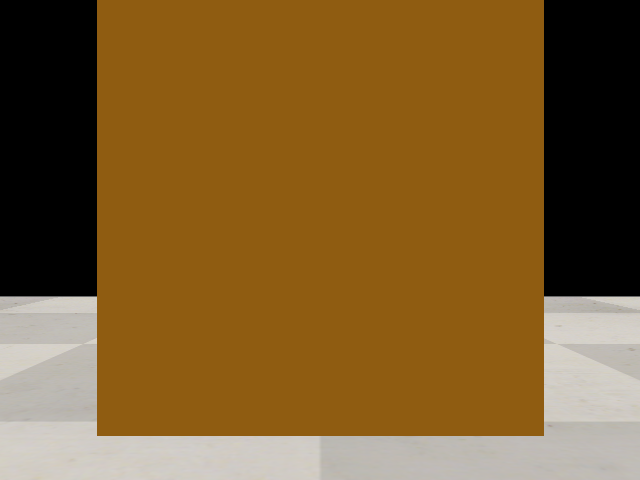
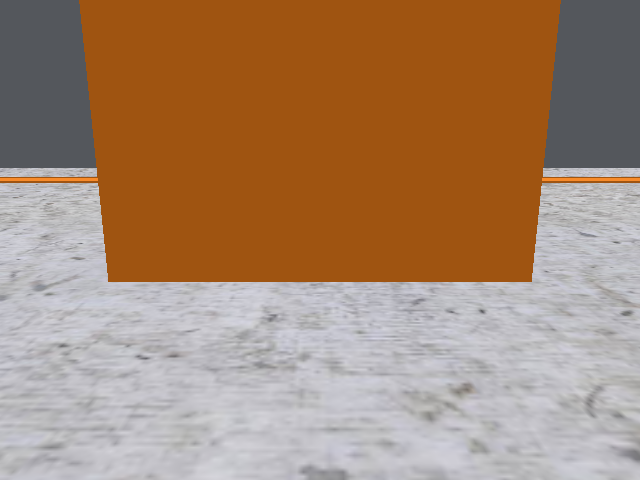
Sensor coverage view: real sonar cones and lidar field
Sensors.geometry reads the sensor fields from the scene (sonar cone 30 deg / 1 m, lidar 2 x 120 deg);
draw_scan shades the lidar field and draws each sonar cone (orange arc = echo), so blind zones are
visible. test_sensors --snapshot works in any scene. Notes: sensor coverage + why there is no rear lidar.

diff --git a/src/sensors.py b/src/sensors.py
@@ -26,6 +26,32 @@ class Sensors:
             if alias.startswith("sonar_"):
                 self.sonars[alias[len("sonar_"):]] = h
         self.camera = sim.getObject(robot_path + "/camera")
+        self.geometry = self._read_geometry()
+
+    def _in_robot(self, h):
+        """Mount position (forward, left) and view direction (rad, 0 = forward, + = left) of a sensor."""
+        m = self.sim.getObjectMatrix(h, self.ref)
+        return (m[7], -m[3]), float(np.arctan2(-m[2], m[6]))        # sensors look along their +z axis
+
+    def _read_geometry(self):
+        """Fields of view READ FROM THE SCENE (not guessed), for draw_scan():
+        lidar = mount position, range and one (direction, half angle) per depth sensor;
+        sonars = per sonar: mount position, direction, half angle, near / far limit of its cone."""
+        sim = self.sim
+        fields = []
+        for s in self.lidar:
+            pos, d = self._in_robot(s)
+            fields.append((d, sim.getObjectFloatParam(s, sim.visionfloatparam_perspective_angle) / 2))
+        lidar = dict(pos=pos, range=sim.getObjectFloatParam(self.lidar[0], sim.visionfloatparam_far_clipping),
+                     fields=fields)
+        sonars = {}
+        for name, h in self.sonars.items():
+            pos, d = self._in_robot(h)
+            off, rng = sim.getFloatProperty(h, "volume_offset"), sim.getFloatProperty(h, "volume_range")
+            # volume_angle[0] = FULL opening of the cone (its volume_edges reach half of it off-axis)
+            sonars[name] = dict(pos=pos, dir=d, half=sim.getFloatArrayProperty(h, "volume_angle")[0] / 2,
+                                near=off, far=off + rng)
+        return dict(lidar=lidar, sonars=sonars)
 
     def lidar_points(self):
         """Obstacle points seen by the lidar, in the robot frame (forward, left)."""
@@ -65,19 +91,62 @@ class Sensors:
         return np.ascontiguousarray(img[::-1, :, ::-1])     # CoppeliaSim: bottom row first, RGB
 
 
-def draw_scan(points, sonars=None, size=500, scale=100):
-    """Top view centred on the robot (forward = up), 1 px = 1/scale m. Returns a BGR image."""
+def _sector(pt, pos, d, half, r0, r1):
+    """Polygon (image px) of the ring sector between r0 and r1 around the robot-frame point pos,
+    centred on direction d (rad), half opening `half`."""
+    a = np.linspace(d - half, d + half, 24)
+    out = [pt(pos[0] + r1 * np.cos(t), pos[1] + r1 * np.sin(t)) for t in a]
+    out += [pt(pos[0] + r0 * np.cos(t), pos[1] + r0 * np.sin(t)) for t in a[::-1]]
+    return np.array(out, np.int32)
+
+
+def draw_scan(points, sonars=None, size=500, scale=100, geometry=None):
+    """Top view centred on the robot (forward = up), 1 px = 1/scale m. Returns a BGR image.
+    With `geometry` (Sensors.geometry): the lidar field is shaded and each sonar is drawn as its real
+    cone, grey when empty, orange with an arc at the measured distance when it hears an echo; what is
+    left white is outside every sensor (blind zones)."""
     import cv2
     img = np.full((size, size, 3), 255, np.uint8)
     c = size // 2
+
+    def pt(f, l):
+        return int(round(c - l * scale)), int(round(c - f * scale))
+
+    if geometry:
+        li = geometry["lidar"]
+        shade = img.copy()
+        for d, half in li["fields"]:
+            cv2.fillPoly(shade, [_sector(pt, li["pos"], d, half, 0.0, li["range"])], (250, 225, 200))
+        cv2.addWeighted(shade, 0.6, img, 0.4, 0, img)
+        cones = img.copy()
+        for name, g in geometry["sonars"].items():
+            d = (sonars or {}).get(name)
+            col = (120, 200, 255) if d is not None else (205, 205, 205)
+            cv2.fillPoly(cones, [_sector(pt, g["pos"], g["dir"], g["half"], g["near"], g["far"])], col)
+        cv2.addWeighted(cones, 0.55, img, 0.45, 0, img)
+        for name, g in geometry["sonars"].items():
+            d = (sonars or {}).get(name)
+            poly = _sector(pt, g["pos"], g["dir"], g["half"], g["near"], g["far"])
+            cv2.polylines(img, [poly], True, (0, 140, 255) if d is not None else (160, 160, 160), 1, cv2.LINE_AA)
+            if d is not None:                                      # echo: somewhere on this arc
+                arc = _sector(pt, g["pos"], g["dir"], g["half"], d, d)[:24]
+                cv2.polylines(img, [arc], False, (0, 110, 255), 3, cv2.LINE_AA)
     for r in range(1, int(size / scale / 2) + 1):                 # 1 m circles
         cv2.circle(img, (c, c), r * scale, (225, 225, 225), 1)
     cv2.rectangle(img, (c - int(0.2 * scale), c - int(0.29 * scale)), (c + int(0.2 * scale), c + int(0.29 * scale)), (120, 120, 120), 2)
     cv2.line(img, (c, c), (c, c - int(0.4 * scale)), (120, 120, 120), 2)                # forward arrow
     for f, l in points:
-        u, v = int(c - l * scale), int(c - f * scale)
+        u, v = pt(f, l)
         if 0 <= u < size and 0 <= v < size:
             cv2.circle(img, (u, v), 2, (40, 40, 220), -1)
+    if geometry:
+        fov = np.degrees(sum(2 * h for _, h in geometry["lidar"]["fields"]))
+        g = next(iter(geometry["sonars"].values()))
+        cv2.putText(img, f"lidar {fov:.0f} deg (bleu), points (rouge), cercles 1 m", (8, size - 28),
+                    cv2.FONT_HERSHEY_SIMPLEX, 0.42, (60, 60, 60), 1)
+        cv2.putText(img, f"sonars {np.degrees(2 * g['half']):.0f} deg / {g['far']:.1f} m (gris, orange = echo)",
+                    (8, size - 10), cv2.FONT_HERSHEY_SIMPLEX, 0.42, (60, 60, 60), 1)
+        return img
     if sonars:
         dirs = {"avant": 0, "avant_gauche": 45, "gauche": 90, "arriere_gauche": 135, "arriere": 180,
                 "arriere_droite": -135, "droite": -90, "avant_droite": -45}

diff --git a/tests/test_sensors.py b/tests/test_sensors.py
@@ -8,7 +8,10 @@ Live mode:  .\.venv\Scripts\python.exe tests\test_sensors.py --live
   opens 2 windows (camera + lidar/sonar view) while the robot turns slowly on the spot.
   Press q in a window (or Ctrl+C in PowerShell) to stop.
 
-Needs scenes\test_youbot.ttt open.
+Snapshot mode (any scene, e.g. the workshop): tests\test_sensors.py --snapshot
+  prints the sensor fields read from the scene, saves media\couverture_capteurs_<scene>.png.
+
+Needs scenes\test_youbot.ttt open (check and live modes).
 """
 
 import sys
@@ -44,8 +47,26 @@ def check(sim, sensors):
     img = sensors.camera_image()
     print("camera:", img.shape)
     cv2.imwrite(str(ROOT / "media" / "camera_robot.png"), img)
-    cv2.imwrite(str(ROOT / "media" / "lidar_scan.png"), draw_scan(pts, son))
+    cv2.imwrite(str(ROOT / "media" / "lidar_scan.png"), draw_scan(pts, son, geometry=sensors.geometry))
     print("Saved media\\camera_robot.png and media\\lidar_scan.png")
+
+
+def snapshot(sim, sensors):
+    """Any scene (e.g. the workshop, robot at the dock): sensor coverage around the robot, no expectations."""
+    for _ in range(5):
+        sim.step()
+    son = sensors.sonar_distances()
+    print("sonars:", son)
+    for name, g in sensors.geometry["sonars"].items():
+        print(f"  {name:15s} mount ({g['pos'][0]:+.2f}, {g['pos'][1]:+.2f}) dir {np.degrees(g['dir']):+5.0f} deg "
+              f"cone {np.degrees(2 * g['half']):.0f} deg {g['near']:.2f}-{g['far']:.2f} m")
+    li = sensors.geometry["lidar"]
+    print(f"lidar mount ({li['pos'][0]:+.2f}, {li['pos'][1]:+.2f}), range {li['range']} m, fields (dir, width deg):",
+          [(round(np.degrees(d)), round(np.degrees(2 * h))) for d, h in li["fields"]])
+    scene = Path(sim.getStringParam(sim.stringparam_scene_path_and_name)).stem
+    out = ROOT / "media" / f"couverture_capteurs_{scene}.png"
+    cv2.imwrite(str(out), draw_scan(sensors.lidar_points(), son, geometry=sensors.geometry))
+    print("Saved", out)
 
 
 def live(sim, sensors, robot):
@@ -53,7 +74,8 @@ def live(sim, sensors, robot):
     while True:
         sim.step()
         cv2.imshow("camera youBot", sensors.camera_image())
-        cv2.imshow("lidar + sonars", draw_scan(sensors.lidar_points(), sensors.sonar_distances()))
+        cv2.imshow("lidar + sonars", draw_scan(sensors.lidar_points(), sensors.sonar_distances(),
+                                               geometry=sensors.geometry))
         if cv2.waitKey(1) & 0xFF == ord("q"):
             break
 
@@ -67,6 +89,8 @@ def main():
     try:
         if "--live" in sys.argv:
             live(sim, sensors, robot)
+        elif "--snapshot" in sys.argv:
+            snapshot(sim, sensors)
         else:
             check(sim, sensors)
     except KeyboardInterrupt:

diff --git a/notes/04_capteurs.md b/notes/04_capteurs.md
@@ -21,6 +21,50 @@ Le youBot de la bibliothèque n'a aucun capteur : ils ont été ajoutés par pro
 Le capteur à ultrasons avant, placé d'abord à 15 cm de haut, ne détectait rien : il se trouvait
 juste derrière le boîtier du lidar, qui masquait son champ. Il a été remonté à 25 cm.
 
+## Couverture des capteurs (vue de dessus)
+Pour voir ce que le robot perçoit vraiment, la vue de dessus (`draw_scan` dans `src\sensors.py`,
+utilisée par la fenêtre de démonstration et par `tests\test_sensors.py --live`) dessine les champs
+des capteurs. Les valeurs ne sont pas recopiées à la main : elles sont **lues dans la scène** au
+démarrage (position et orientation de chaque capteur par rapport au robot, volume de détection des
+capteurs de proximité, angle et portée des capteurs de profondeur du lidar).
+
+| Capteur | Champ lu dans la scène |
+|---|---|
+| Lidar | 2 capteurs de profondeur de 120° = 240° vers l'avant, portée 5 m |
+| Chaque ultrason (× 8) | cône de 30° d'ouverture, portée 1,0 m, monté au bord de la base |
+
+- zone bleue : champ du lidar ;
+- cônes gris : ultrasons sans écho ; cône orange et arc épais : écho, à la distance mesurée
+  (un ultrason donne seulement une distance, l'obstacle est quelque part sur cet arc) ;
+- zones restées blanches : aucun capteur ne voit (zones aveugles).
+
+La vue montre clairement deux limites : l'arrière du robot n'est couvert que par trois cônes
+d'ultrasons de 30°, et il reste des secteurs vides entre les cônes, surtout près du robot.
+
+## Pas de lidar arrière (choix assumé)
+Le robot n'a qu'un lidar, à l'avant. Ce choix a été étudié puis conservé :
+
+- **Le capteur est fait ainsi** : le Hokuyo URG-04LX couvre 240° par construction ; il ne peut pas
+  voir derrière lui.
+- **Le robot se masque lui-même** : monté à 13 cm du sol à l'avant, le lidar aurait de toute façon
+  le corps du youBot dans son champ vers l'arrière.
+- **Ce que font les AMR industriels** : soit deux lidars de sécurité de 270° placés sur deux coins
+  opposés, dont les mesures sont fusionnées en une vue à 360° ; soit un seul lidar en hauteur sur un
+  mât. Le mât ne convient pas ici : le bras et le bac transporté seraient dans son champ.
+- **Pourquoi ce n'est pas fait dans ce projet** : coût de simulation (chaque Hokuyo « fast » =
+  deux capteurs de vision rendus à chaque pas), risque de collision entre un capteur au coin arrière
+  et la plateforme / le bac pendant les manipulations du bras, et effort d'intégration (fusion des
+  deux nuages de points, nouveaux tests).
+- **Comment l'arrière est couvert** : par l'anneau d'ultrasons (trois cônes vers l'arrière, portée
+  d'environ 1 m), dont les échos non expliqués par la carte sont traités comme des obstacles, et par
+  l'arrêt d'urgence : si un ultrason orienté dans le sens du déplacement mesure moins de 22 cm, le
+  robot s'arrête.
+- **Limite acceptée** : une personne qui arrive par l'arrière est détectée tard (à 1 m au plus, et
+  seulement si elle entre dans un cône) et ne peut pas être suivie : un ultrason donne une distance,
+  pas une position précise ni une vitesse.
+- **Évolution possible** : un second lidar sur le coin arrière opposé, fusionné avec le premier,
+  comme sur les AMR du commerce.
+
 ## Validation (`tests\test_sensors.py`)
 Scène de test avec trois obstacles connus : une caisse à 1,2 m devant, un poteau à 0,7 m à gauche,
 un mur à 1 m derrière.
@@ -33,5 +77,5 @@ un mur à 1 m derrière.
 | Caméra | image 640 × 480 de la caisse | — |
 
 Images : `media\camera_robot.png` (vue caméra), `media\lidar_scan.png` (vue de dessus :
-points lidar en rouge, ultrasons en orange). Un mode d'affichage en direct
+points lidar en rouge, champs des capteurs comme décrit plus haut). Un mode d'affichage en direct
 (`tests\test_sensors.py --live`) montre le flux caméra et le balayage lidar en temps réel.
